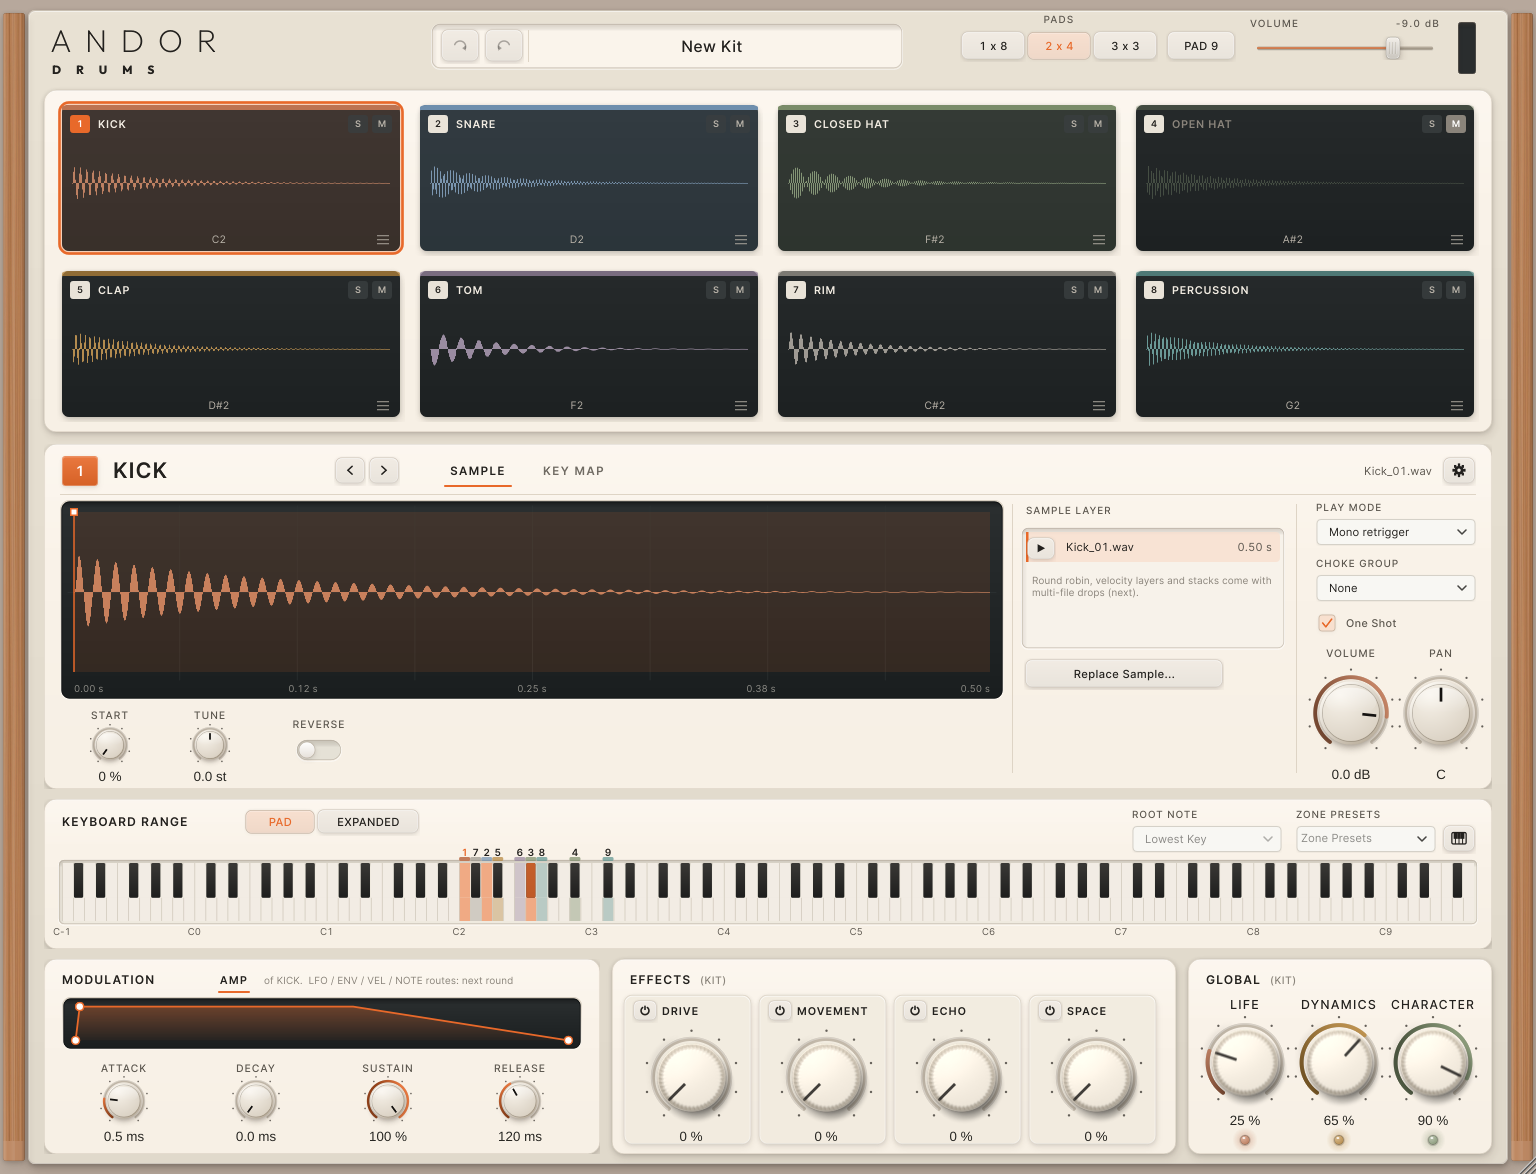
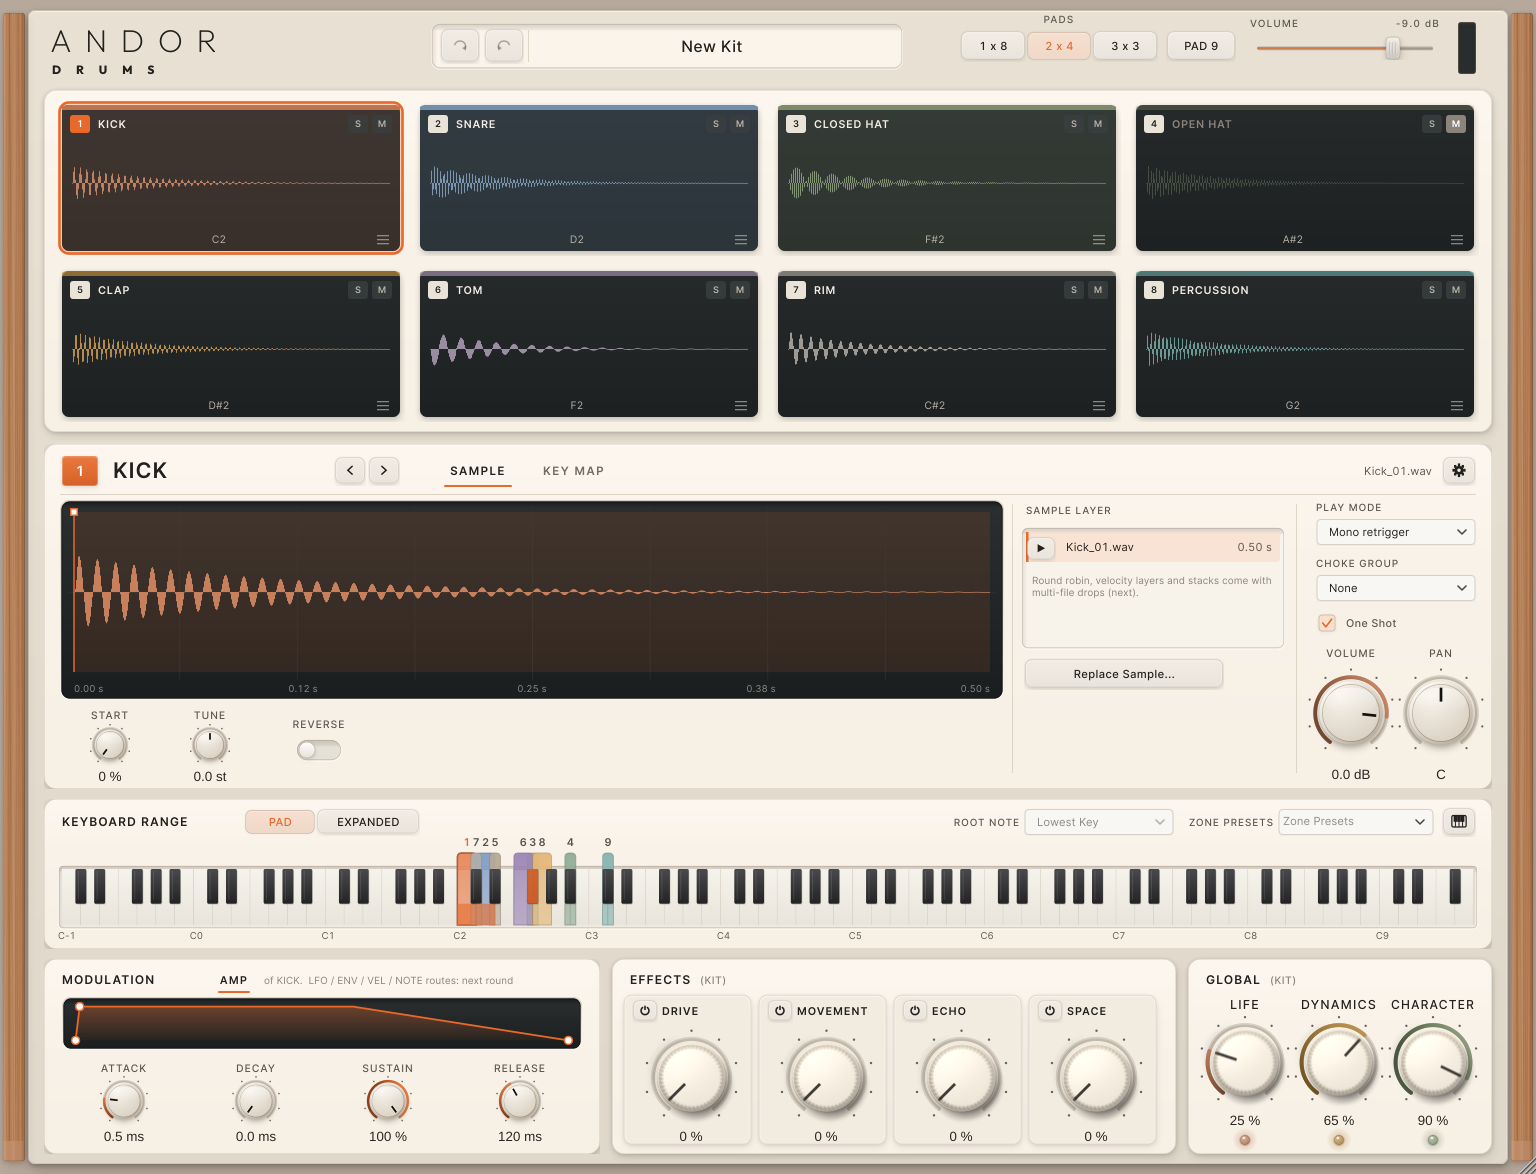
ANDOR Drums: keyboard range strip as the mockup
The KEYBOARD RANGE strip now copies the mockup: a real piano (75 white keys
for MIDI 0-127, black keys narrower and shorter on top); each pad's range is a
solid tab rising above the keys with rounded top corners and a strong wash
over its keys (black keys stay dark), darker edges (stronger when selected),
the pad number above in the accent colour when selected. Zone colours
sampled from the mockup (kick e8895b, snare 819ec6, hats a2bca1 / 91ad96,
clap b8a996, tom 9d87b6, rim afafad, perc e5b779; cymbal 86b4b0). Clicks hit
the piano geometry (black keys first). ROOT NOTE and ZONE PRESETS moved into
the title row so they never cover a pad number. New snapshot
03b-keyboard-range-expanded; plugin tests pass.

Claude-Session: https://claude.ai/code/session_01Rg3AM7SK7uh7mZ8brXNpHz

Changed region(s): [[0.0312, 0.6746, 0.9688, 0.7973]]

diff --git a/apps/drums/Source/DrumsEditor.cpp b/apps/drums/Source/DrumsEditor.cpp
@@ -456,12 +456,67 @@ KeyboardRangeStrip::KeyboardRangeStrip (DrumsProcessor& p) : proc (p)
     refresh();
 }
 
-juce::Rectangle<float> KeyboardRangeStrip::keys() const { return { 18.0f, 64.0f, static_cast<float> (getWidth()) - 36.0f, 58.0f }; }
+juce::Rectangle<float> KeyboardRangeStrip::keys() const { return { 18.0f, 70.0f, static_cast<float> (getWidth()) - 36.0f, 56.0f }; }
+
+namespace
+{
+    // A real piano (as the mockup): 75 equal white keys for MIDI 0..127, black keys
+    // narrower and shorter, centred on the line between their two white neighbours.
+    constexpr int whiteKeys = 75;
+    constexpr float blackWidth = 0.58f;    // of a white key
+    constexpr float blackHeight = 0.62f;   // of the key height
+
+    int whiteIndex (int note) noexcept
+    {
+        static const int inOctave[] = { 0, 0, 1, 1, 2, 3, 3, 4, 4, 5, 5, 6 };
+        return note / 12 * 7 + inOctave[note % 12];
+    }
+
+    /** The zone-tab colours sampled from the mockup, by category: strong, but still warm. */
+    juce::Colour zoneColour (drums::DrumCategory c)
+    {
+        switch (c)
+        {
+            case drums::DrumCategory::kick: return juce::Colour (0xffe8895b);
+            case drums::DrumCategory::snare: return juce::Colour (0xff819ec6);
+            case drums::DrumCategory::closedHat: return juce::Colour (0xffa2bca1);
+            case drums::DrumCategory::openHat: return juce::Colour (0xff91ad96);
+            case drums::DrumCategory::clap: return juce::Colour (0xffb8a996);
+            case drums::DrumCategory::tom: return juce::Colour (0xff9d87b6);
+            case drums::DrumCategory::rim: return juce::Colour (0xffafafad);
+            case drums::DrumCategory::percussion: return juce::Colour (0xffe5b779);
+            case drums::DrumCategory::cymbal: return juce::Colour (0xff86b4b0);
+            case drums::DrumCategory::unknown: break;
+        }
+        return juce::Colour (0xffafafad);
+    }
+} // namespace
+
+juce::Rectangle<float> KeyboardRangeStrip::keyRect (int note) const
+{
+    const auto k = keys();
+    const float w = k.getWidth() / static_cast<float> (whiteKeys);
+    if (! look::isBlackKey (note))
+        return { k.getX() + w * static_cast<float> (whiteIndex (note)), k.getY(), w, k.getHeight() };
+    const float boundary = k.getX() + w * static_cast<float> (whiteIndex (note) + 1);
+    return { boundary - w * blackWidth * 0.5f, k.getY(), w * blackWidth, k.getHeight() * blackHeight };
+}
 
 float KeyboardRangeStrip::noteX (double note) const
 {
-    const auto k = keys();
-    return k.getX() + static_cast<float> (note / 128.0) * k.getWidth();
+    return keyRect (juce::jlimit (0, 127, static_cast<int> (note))).getX();
+}
+
+int KeyboardRangeStrip::noteAt (juce::Point<float> p) const
+{
+    // Black keys sit on top: test them first.
+    for (int n = 0; n < 128; ++n)
+        if (look::isBlackKey (n) && keyRect (n).contains (p))
+            return n;
+    for (int n = 0; n < 128; ++n)
+        if (! look::isBlackKey (n) && keyRect (n).withY (keys().getY() - 26.0f).withHeight (keys().getHeight() + 26.0f).contains (p))
+            return n;
+    return -1;
 }
 
 void KeyboardRangeStrip::refresh()
@@ -486,17 +541,18 @@ void KeyboardRangeStrip::resized()
 {
     padMode.setBounds (200, 9, 72, 28);
     expandedMode.setBounds (272, 9, 104, 28);
-    root.setBounds (getWidth() - 360, 26, 150, 28);
-    presets.setBounds (getWidth() - 196, 26, 140, 28);
-    open.setBounds (getWidth() - 50, 25, 34, 30);
+    // In the title row, so the pad numbers above the zones are never covered.
+    root.setBounds (getWidth() - 468, 9, 150, 28);
+    presets.setBounds (getWidth() - 214, 9, 156, 28);
+    open.setBounds (getWidth() - 50, 8, 34, 30);
 }
 
 void KeyboardRangeStrip::mouseDown (const juce::MouseEvent& e)
 {
-    // A click on a zone (or a PAD note) selects its pad.
-    if (! keys().expanded (0.0f, 22.0f).contains (e.position))
+    // A click on a zone (its tab or its keys) or a PAD note selects that pad.
+    const int note = noteAt (e.position);
+    if (note < 0)
         return;
-    const int note = juce::jlimit (0, 127, static_cast<int> ((e.position.x - keys().getX()) / keys().getWidth() * 128.0f));
     std::array<drums::Hit, drums::maxPads> hits {};
     if (drums::resolve (proc.keyMap(), proc.keyboardMode(), note, hits) > 0 && onSelect)
         onSelect (hits[0].pad);
@@ -506,55 +562,20 @@ void KeyboardRangeStrip::paint (juce::Graphics& g)
 {
     ceramic::card (g, getLocalBounds().toFloat(), 12.0f);
     sectionTitle (g, { 18, 9, 180, 28 }, "KEYBOARD RANGE");
-    smallLabel (g, { getWidth() - 360, 6, 150, 18 }, "ROOT NOTE");
-    smallLabel (g, { getWidth() - 196, 6, 140, 18 }, "ZONE PRESETS");
+    smallLabel (g, { getWidth() - 552, 9, 80, 28 }, "ROOT NOTE", juce::Justification::centredRight);
+    smallLabel (g, { getWidth() - 312, 9, 94, 28 }, "ZONE PRESETS", juce::Justification::centredRight);
 
     const auto k = keys();
-    ceramic::recess (g, k.expanded (3.0f), 5.0f);
-    const float px = k.getWidth() / 128.0f;
     const bool exp = proc.keyboardMode() == drums::KeyboardMode::expanded;
     const auto& map = proc.keyMap();
-    // Keys: equal semitone columns (exactly under the zones), white then black on top.
-    for (int n = 0; n < 128; ++n)
+
+    // Each pad's range: from its lowest key's left edge to its highest key's right edge.
+    struct Span
     {
-        const auto col = juce::Rectangle<float> (noteX (n), k.getY(), px, k.getHeight());
-        std::array<drums::Hit, drums::maxPads> hits {};
-        const int count = drums::resolve (map, proc.keyboardMode(), n, hits);
-        auto face = cc::keyNormal;
-        if (count > 0)
-            face = face.interpolatedWith (look::category (proc.padInfo (hits[0].pad).category), proc.selectedPad == hits[0].pad ? 0.55f : 0.38f);
-        if (held[static_cast<std::size_t> (n)])
-            face = cc::keyOn.interpolatedWith (cc::accent, 0.45f);
-        g.setColour (face);
-        g.fillRect (col.withTrimmedTop (k.getHeight() * 0.6f));
-        if (! look::isBlackKey (n))
-            g.fillRect (col.withHeight (k.getHeight() * 0.6f));
-    }
-    for (int n = 0; n < 128; ++n)
-    {
-        const float x = noteX (n);
-        const bool whiteBoundary = n % 12 == 0 || n % 12 == 5;
-        g.setColour (juce::Colour (0xffd2cabd));
-        g.fillRect (juce::Rectangle<float> (x, whiteBoundary ? k.getY() : k.getY() + k.getHeight() * 0.6f, 0.8f, whiteBoundary ? k.getHeight() : k.getHeight() * 0.4f));
-        if (look::isBlackKey (n))
-        {
-            const auto blackKey = juce::Rectangle<float> (x + px * 0.08f, k.getY(), px * 0.84f, k.getHeight() * 0.6f);
-            g.setGradientFill (juce::ColourGradient (juce::Colour (0xff3a3936), blackKey.getX(), blackKey.getY(), juce::Colour (0xff1e1e1d), blackKey.getX(), blackKey.getBottom(), false));
-            g.fillRoundedRectangle (blackKey, 1.5f);
-            if (held[static_cast<std::size_t> (n)])
-            {
-                g.setColour (cc::accent.withAlpha (0.8f));
-                g.fillRoundedRectangle (blackKey, 1.5f);
-            }
-        }
-        if (n % 12 == 0)
-        {
-            g.setColour (cc::textSecondary);
-            g.setFont (type::micro (11.5f));
-            g.drawText (look::noteName (n), juce::Rectangle<float> (x - 18.0f, k.getBottom() + 4.0f, 36.0f, 14.0f), juce::Justification::centred);
-        }
-    }
-    // Pad numbers above their zones (or notes), in the pad's colour.
+        int pad, low, high;
+        float x0, x1;
+    };
+    std::vector<Span> spans;
     for (int p = 0; p < drums::maxPads; ++p)
     {
         const auto i = static_cast<std::size_t> (p);
@@ -566,15 +587,88 @@ void KeyboardRangeStrip::paint (juce::Graphics& g)
         }
         else if (! exp && map.padNote[i] >= 0)
             lo = hi = map.padNote[i];
-        if (lo < 0)
-            continue;
-        const auto band = juce::Rectangle<float> (noteX (lo), k.getY() - 16.0f, noteX (hi + 1) - noteX (lo), 14.0f);
-        const auto c = look::category (proc.padInfo (p).category);
-        g.setColour (c.withAlpha (proc.selectedPad == p ? 0.95f : 0.7f));
-        g.fillRoundedRectangle (band.withTrimmedTop (10.0f), 1.5f);
-        g.setColour (proc.selectedPad == p ? cc::accent : cc::text);
-        g.setFont (plugin::fonts::make (12.0f, look::Weight::semibold));
-        g.drawText (juce::String (p + 1), band.withTrimmedBottom (4.0f).expanded (8.0f, 0.0f), juce::Justification::centred);
+        if (lo >= 0)
+            spans.push_back ({ p, lo, hi, keyRect (lo).getX(), keyRect (hi).getRight() });
+    }
+
+    // The keybed: ivory white keys with fine separators.
+    ceramic::recess (g, k.expanded (3.0f), 4.0f);
+    for (int n = 0; n < 128; ++n)
+        if (! look::isBlackKey (n))
+        {
+            const auto r = keyRect (n);
+            g.setGradientFill (juce::ColourGradient (juce::Colour (0xfff6f3ec), r.getX(), r.getY(), juce::Colour (0xffe9e5dc), r.getX(), r.getBottom(), false));
+            g.fillRect (r);
+            g.setColour (juce::Colour (0xffcdc6ba));
+            g.fillRect (juce::Rectangle<float> (r.getRight() - 0.5f, r.getY(), 0.8f, r.getHeight()));
+        }
+
+    // Zones: a solid tab above the keys, then a strong wash over them that fades a little
+    // towards the front of the keys (the mockup's look).
+    const float tab = 16.0f;
+    for (const auto& s : spans)
+    {
+        const auto c = zoneColour (proc.padInfo (s.pad).category);
+        const bool selected = proc.selectedPad == s.pad;
+        const auto body = juce::Rectangle<float> (s.x0, k.getY() - tab, s.x1 - s.x0, k.getHeight() + tab);
+        juce::Path shape;
+        shape.addRoundedRectangle (body.getX(), body.getY(), body.getWidth(), body.getHeight(), 4.0f, 4.0f, true, true, false, false);
+        g.setGradientFill (juce::ColourGradient (c.withAlpha (0.96f), 0.0f, body.getY(), c.withAlpha (0.92f), 0.0f, k.getY(), false));
+        g.saveState();
+        g.reduceClipRegion (juce::Rectangle<float> (body.getX(), body.getY(), body.getWidth(), tab + 1.0f).toNearestInt());
+        g.fillPath (shape);
+        g.restoreState();
+        g.setGradientFill (juce::ColourGradient (c.withAlpha (0.82f), 0.0f, k.getY(), c.withAlpha (0.62f), 0.0f, k.getBottom(), false));
+        g.fillRect (body.withTop (k.getY()));
+        // Key separators show through the wash.
+        for (int n = s.low; n <= s.high + 1 && n < 128; ++n)
+            if (! look::isBlackKey (n) && n > s.low)
+            {
+                g.setColour (c.darker (0.35f).withAlpha (0.35f));
+                g.fillRect (juce::Rectangle<float> (keyRect (n).getX() - 0.5f, k.getY(), 0.8f, k.getHeight()));
+            }
+        // Edges: a slightly darker outline; the selected pad's is stronger.
+        g.setColour (c.darker (selected ? 0.45f : 0.25f).withAlpha (selected ? 0.95f : 0.6f));
+        g.strokePath (shape, juce::PathStrokeType (selected ? 1.6f : 1.0f));
+    }
+
+    // Black keys on top (dark through every zone), and held notes.
+    for (int n = 0; n < 128; ++n)
+    {
+        const auto r = keyRect (n);
+        const bool black = look::isBlackKey (n);
+        if (black)
+        {
+            g.setColour (juce::Colours::black.withAlpha (0.18f));
+            g.fillRoundedRectangle (r.translated (0.6f, 0.8f), 1.5f);
+            g.setGradientFill (juce::ColourGradient (juce::Colour (0xff4a4a4c), r.getX(), r.getY(), juce::Colour (0xff232324), r.getX(), r.getBottom(), false));
+            g.fillRoundedRectangle (r, 1.5f);
+            g.setColour (juce::Colours::white.withAlpha (0.12f));
+            g.fillRect (r.reduced (r.getWidth() * 0.22f, 0.0f).withHeight (r.getHeight() - 4.0f).withTrimmedTop (2.0f).withWidth (1.0f));
+        }
+        if (held[static_cast<std::size_t> (n)])
+        {
+            g.setColour (cc::accent.withAlpha (black ? 0.85f : 0.6f));
+            black ? g.fillRoundedRectangle (r, 1.5f) : g.fillRect (r.withTrimmedTop (r.getHeight() * blackHeight));
+        }
+    }
+
+    // Pad numbers above their tabs; the selected pad's in the accent colour.
+    for (const auto& s : spans)
+    {
+        const auto label = juce::Rectangle<float> (s.x0 - 10.0f, k.getY() - tab - 19.0f, s.x1 - s.x0 + 20.0f, 17.0f);
+        g.setColour (proc.selectedPad == s.pad ? cc::accent : juce::Colour (0xff55524c));
+        g.setFont (plugin::fonts::make (13.0f, look::Weight::semibold));
+        g.drawText (juce::String (s.pad + 1), label, juce::Justification::centred);
+    }
+
+    // Octave names under the C keys.
+    g.setColour (cc::textSecondary);
+    g.setFont (type::micro (11.5f));
+    for (int n = 0; n < 128; n += 12)
+    {
+        const auto r = keyRect (n);
+        g.drawText (look::noteName (n), juce::Rectangle<float> (r.getX() - 4.0f, k.getBottom() + 4.0f, 40.0f, 14.0f), juce::Justification::centredLeft);
     }
 }
 

diff --git a/tests/drums/DrumsPluginTests.cpp b/tests/drums/DrumsPluginTests.cpp
@@ -694,6 +694,19 @@ TEST_CASE ("Snapshots of every major state (written when ANDOR_DRUMS_SNAPSHOT_DI
     sendNotes (p, { { 36, true }, { 38, true }, { 42, true } });
     editor->content().padGrid().refresh();
     snapshot (*editor, "03-playing");
+    {
+        // The mockup's state: EXPANDED, one octave per pad from C1 (MIDI 24 in OSP's names).
+        const auto pads = p.keyMap();
+        auto m = pads;
+        REQUIRE (drums::applyZoneLayout (m, 12, { 0, 1, 2, 3, 4, 5, 6, 7 }, 24).applied);
+        p.setKeyMap (m);
+        p.setKeyboardMode (drums::KeyboardMode::expanded);
+        editor->content().refreshModeBar();
+        snapshot (*editor, "03b-keyboard-range-expanded");
+        p.setKeyMap (pads);
+        p.setKeyboardMode (drums::KeyboardMode::pad);
+        editor->content().refreshModeBar();
+    }
     editor->content().setLayout (DrumsProcessor::PadLayout::grid8);
     snapshot (*editor, "04a-pads-2x4");
     editor->content().setLayout (DrumsProcessor::PadLayout::grid9);

diff --git a/apps/drums/Source/DrumsEditor.h b/apps/drums/Source/DrumsEditor.h
@@ -93,7 +93,10 @@ public:
 
 private:
     juce::Rectangle<float> keys() const;
+    /** A key's rectangle on the piano (white keys full height, black keys shorter on top). */
+    juce::Rectangle<float> keyRect (int note) const;
     float noteX (double note) const;
+    int noteAt (juce::Point<float>) const;
     DrumsProcessor& proc;
     ceramic::KeyButton padMode { "PAD", 0.6f }, expandedMode { "EXPANDED", 0.6f }, open { {}, 0.8f };
     juce::ComboBox root, presets;

diff --git a/docs/drums/v1.2-ceramic.md b/docs/drums/v1.2-ceramic.md
@@ -62,6 +62,19 @@ bottom row stay visible.
 State: the layout (`1x8` / `2x4` / `3x3`) and the kit name are saved in `<View>`. Kits saved
 with `2x4` or `3x3` keep their layout; new kits start in `1x8`.
 
+## Keyboard range (as the mockup)
+
+A real piano (75 equal white keys for MIDI 0-127, black keys narrower and shorter on top).
+Each pad's range is a solid tab that rises above the keys, with rounded top corners, and
+continues as a strong wash over them that fades a little towards the front. The black keys
+stay dark through it. The edges get a slightly darker outline, stronger for the selected
+pad, and the pad number sits above its tab (the selected pad's in the accent colour).
+Colours are sampled from the mockup's tabs: kick , snare , closed hat
+, open hat , clap , tom , rim , percussion
+, plus cymbal , which the mockup does not show. ROOT NOTE and ZONE PRESETS
+moved into the title row, so no pad number is ever covered. Snapshot:
+.
+
 ## Not done (needs a decision or tools)
 
 - Rendered (Blender) 9-slices for the housing, cards, keys, badges, cap, rail, lenses and
